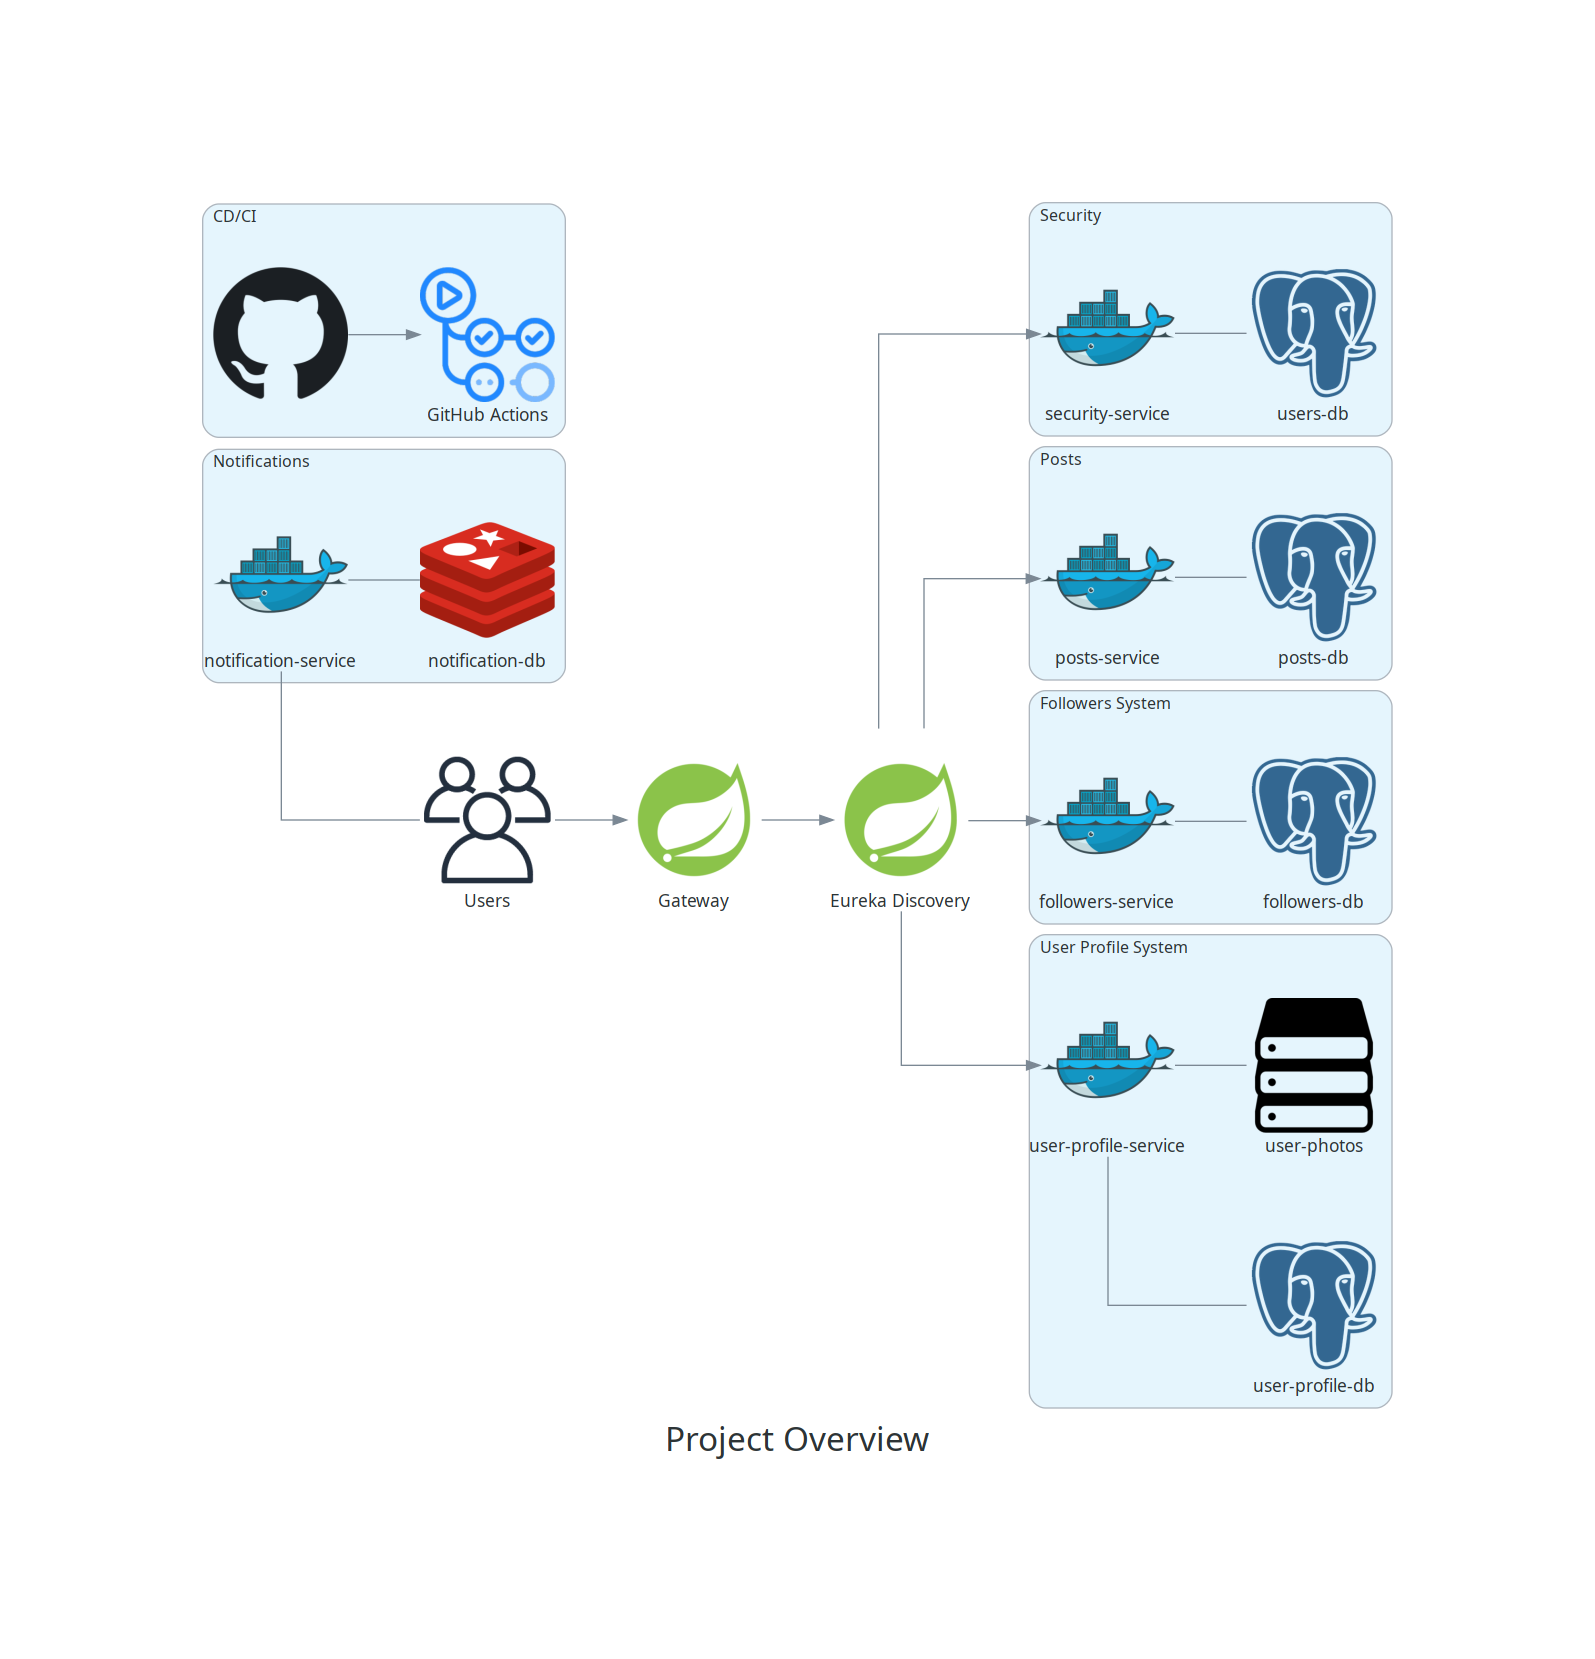
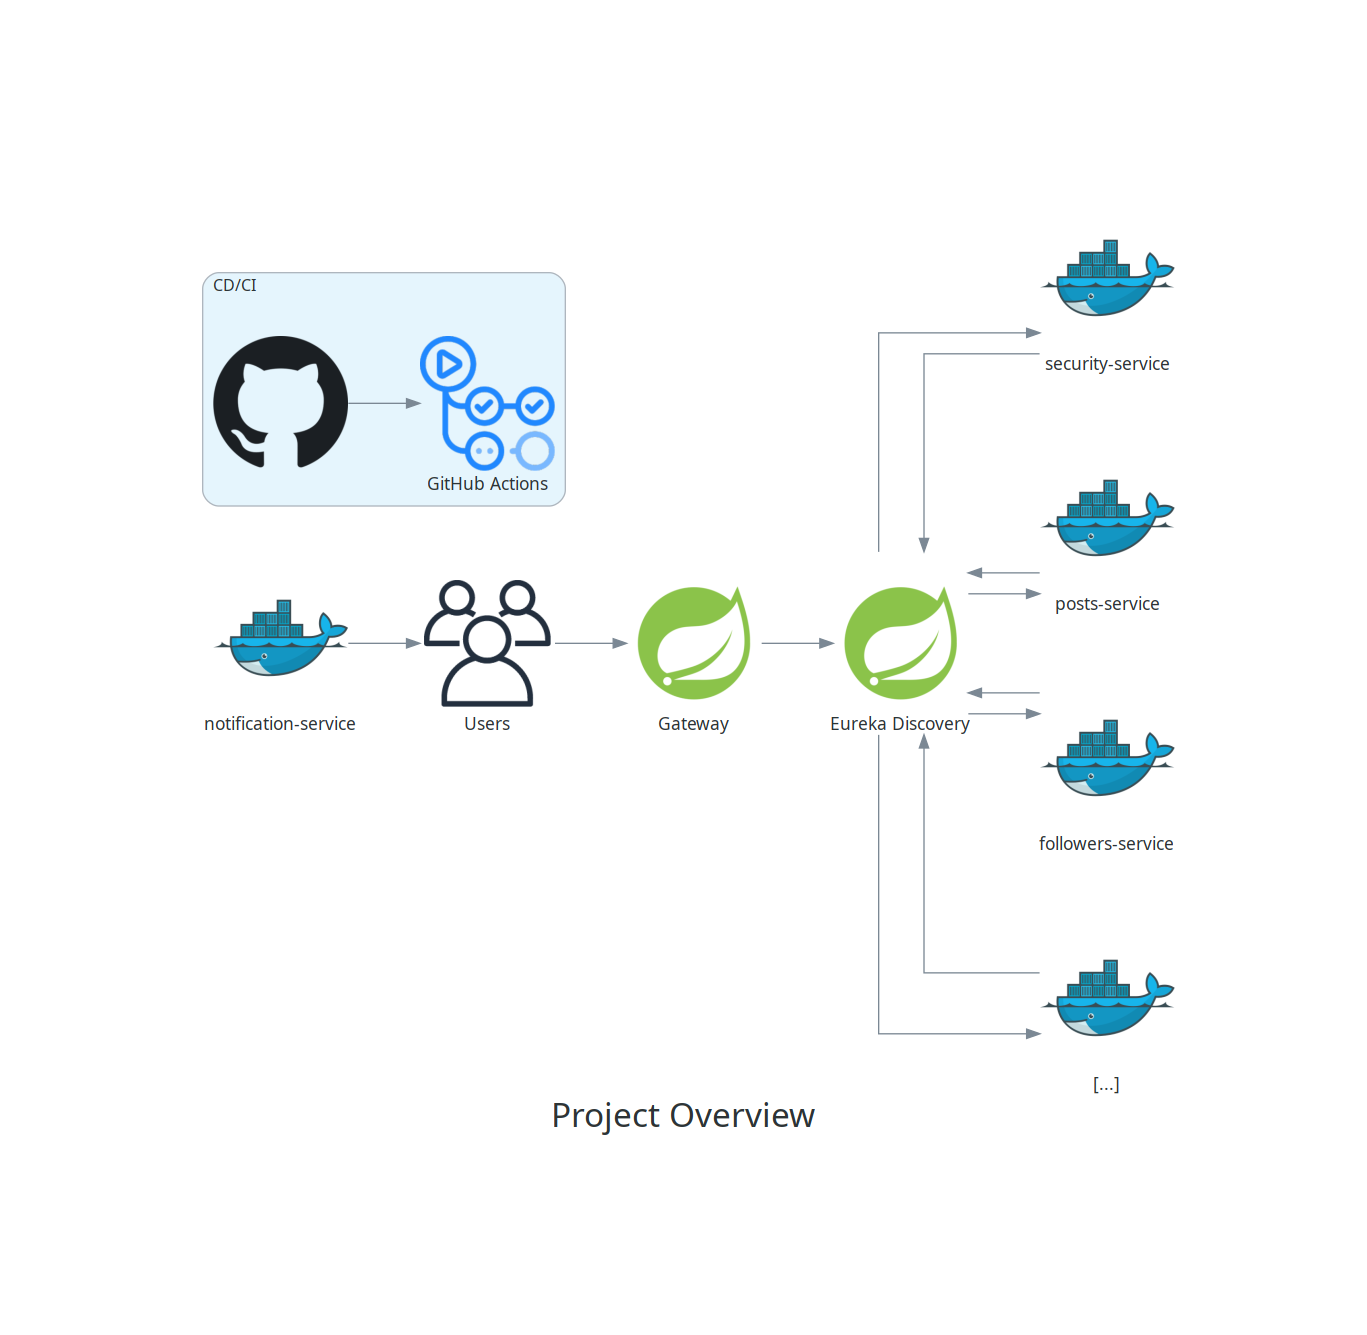
docs: simplifies project overview

Changed region(s): [[0.1229, 0.1228, 0.891, 0.8599], [0.3994, 0.8292, 0.6145, 0.8906]]

diff --git a/docs/diagrams/project_overview.py b/docs/diagrams/project_overview.py
@@ -1,10 +1,7 @@
 from diagrams import Diagram, Cluster, Edge
-from diagrams.generic.storage import Storage
 from diagrams.onprem.ci import GithubActions
 from diagrams.onprem.client import Users
 from diagrams.onprem.container import Docker
-from diagrams.onprem.database import PostgreSQL
-from diagrams.onprem.inmemory import Redis
 from diagrams.onprem.vcs import Github
 from diagrams.programming.framework import Spring
 
@@ -17,32 +14,17 @@ with Diagram("Project Overview", graph_attr=graph_attr):
     user = Users("Users")
     gateway = Spring("Gateway")
     discovery = Spring("Eureka Discovery")
-
-    with Cluster("Security"):
-        sec_group = Docker("security-service")
-        sec_group - [PostgreSQL("users-db")]
-
-    with Cluster("Posts"):
-        posts_group = Docker("posts-service")
-        posts_group - [PostgreSQL("posts-db")]
-
-    with Cluster("Followers System"):
-        followers_group = Docker("followers-service")
-        followers_group - [PostgreSQL("followers-db")]
-
-    with Cluster("Notifications"):
-        notif_group = Docker("notification-service")
-        notif_group - [Redis("notification-db")]
-
-    with Cluster("User Profile System"):
-        profile_group = Docker("user-profile-service")
-        profile_group - [PostgreSQL("user-profile-db"), Storage("user-photos")]
+    security = Docker("security-service")
+    posts = Docker("posts-service")
+    followers = Docker("followers-service")
+    notification = Docker("notification-service")
+    etc = Docker("[...]")
 
     with Cluster("CD/CI"):
         cdci_group = Github() >> GithubActions("GitHub Actions")
 
-    notif_group - [user]
+    notification >> user
     user >> gateway >> discovery >> \
-        [sec_group, posts_group, followers_group, profile_group]
+        [security, posts, followers, etc] >> discovery
 
     Edge() >> cdci_group

diff --git a/README.md b/README.md
@@ -8,7 +8,7 @@ _This is also a live document. It will change from time to time._
 
 Signals is an open-source live-sharing character-limited-posting social media. It aims to have the same functionalities as Twitter.
 
-![Signals project diagram](./docs/diagrams/project_overview.png)
+![Simplified project diagram](./docs/diagrams/project_overview.png)
 
 ## Back-end structure
 
